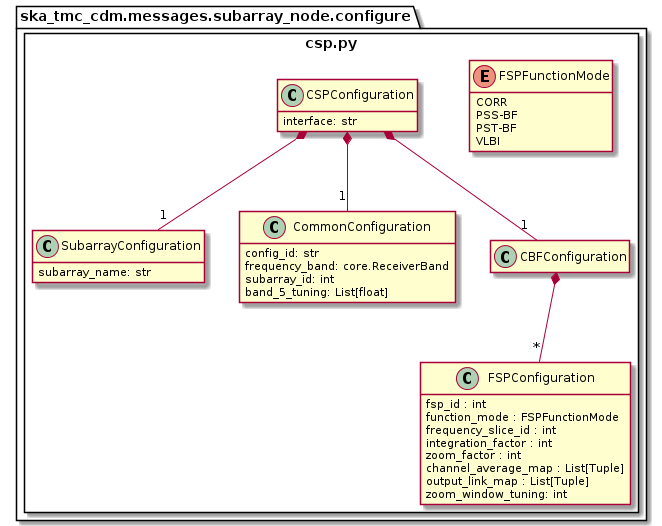
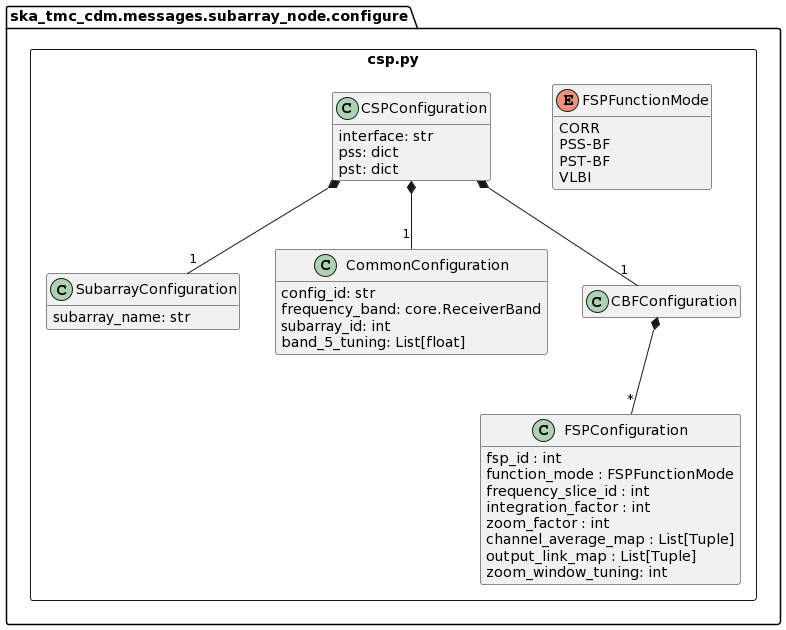
NAK-99 Documentation Update

diff --git a/src/ska_tmc_cdm/messages/subarray_node/configure/csp.py b/src/ska_tmc_cdm/messages/subarray_node/configure/csp.py
@@ -187,8 +187,8 @@ class CBFConfiguration:
     def __init__(
         self,
         fsp_configs: List[FSPConfiguration],
-        # TODO: in future when csp 2.2 will be used than type of vlbi_config parameter will be replaced # pylint: disable=W0511
-        #  with the respective class(VLBIConfiguration)
+        # TODO: in future when csp 2.2 will be used than type of vlbi_config parameter # pylint: disable=W0511
+            #  will be replaced with the respective class(VLBIConfiguration)
         vlbi_config: dict = None,
     ):
         """
@@ -227,8 +227,8 @@ class CSPConfiguration:
         subarray_config: SubarrayConfiguration = None,
         common_config: CommonConfiguration = None,
         cbf_config: CBFConfiguration = None,
-        # TODO: in future when csp2.2 will be used than type of pst_config and pss_config parameter will be replaced # pylint: disable=W0511
-        #  with the respective class(PSTConfiguration,PSSConfiguration)
+        # TODO: in future when csp2.2 will be used than type of pst_config and pss_config # pylint: disable=W0511
+            #  parameter will be replaced with the respective class(PSTConfiguration,PSSConfiguration)
         pst_config: dict = None,
         pss_config: dict = None,
     ):

diff --git a/src/ska_tmc_cdm/schemas/subarray_node/configure/csp.py b/src/ska_tmc_cdm/schemas/subarray_node/configure/csp.py
@@ -220,7 +220,7 @@ class CBFConfigurationSchema(Schema):
 
         :param data: Marshmallow-provided dict containing parsed object values
         :param _: kwargs passed by Marshmallow
-        :return: dict suitable for FSP configuration
+        :return: dict suitable for CBF configuration
         """
         result = {k: v for k, v in data.items() if v is not None}
         return result
@@ -237,8 +237,8 @@ class CSPConfigurationSchema(ValidatingSchema):
     common_config = fields.Nested(CommonConfigurationSchema, data_key="common")
     cbf_config = fields.Nested(CBFConfigurationSchema, data_key="cbf")
 
-    # TODO: in future when csp2.2 will be used than these 2 parameter type will be replaced with # pylint: disable=W0511
-    #  the respective class schema (PSSonfigurationSchema,PSTConfigurationSchema)
+    # TODO: in future when csp2.2 will be used than these 2 parameter type will be # pylint: disable=W0511
+    #  replaced with the respective class schema (PSSConfigurationSchema,PSTConfigurationSchema)
     pss_config = fields.Dict(data_key="pss")
     pst_config = fields.Dict(data_key="pst")
 

diff --git a/tests/unit/ska_tmc_cdm/messages/subarray_node/test_configure.py b/tests/unit/ska_tmc_cdm/messages/subarray_node/test_configure.py
@@ -263,10 +263,10 @@ def test_configure_request_mccs_independence():
     #     )
 
 
-def test_csp_configuration_equals_pi16():
+def test_configure_request_equals_pi16():
     """
-    Verify that CSPConfiguration objects are considered equal when all
-    attributes are equal.
+    Verify that ConfigureRequest objects are considered equal when all
+    attributes are equal and not equal when there value differ.
     """
 
     configure_request_obj_1 = ConfigureRequest(**CONFIGURE_OBJECT_ARGS_PI16)
@@ -284,9 +284,9 @@ def test_csp_configuration_equals_pi16():
     assert configure_request_obj_1 != configure_request_obj_3
 
 
-def test_csp_configuration_not_equal_to_other_objects_pi16():
+def test_configure_request_not_equal_to_other_objects_pi16():
     """
-    Verify that CSPConfiguration objects are not considered equal to objects
+    Verify that ConfigureRequest objects are not considered equal to objects
     of other types.
     """
     configure_request_obj_1 = ConfigureRequest(**CONFIGURE_OBJECT_ARGS_PI16)

diff --git a/docs/src/developer/subarraynode/subarraynode.rst b/docs/src/developer/subarraynode/subarraynode.rst
@@ -132,54 +132,87 @@ of a full CDM JSON object, the elements this maps to are:
   # JSON modelled specifically by csp.py
   {
     ...
-    "csp": {
-      "interface": "https://schema.skao.int/ska-csp-configure/2.0",
-      "subarray": {
-        "subarray_name": "science period 23"
-      },
-      "common": {
-        "config_id": "sbi-mvp01-20200325-00001-science_A",
-        "frequency_band": "1",
-        "subarray_id": 1
-      },
-      "cbf": {
-        "fsp": [
-          {
-            "fsp_id": 1,
-            "function_mode": "CORR",
-            "frequency_slice_id": 1,
-            "integration_factor": 10,
-            "output_link_map": [
-              [0,0],
-              [200,1]
+    csp": {
+    "interface": "https://schema.skao.int/ska-csp-configure/2.0",
+    "subarray": {
+      "subarray_name": "science period 23"
+    },
+    "common": {
+      "config_id": "sbi-mvp01-20200325-00001-science_A",
+      "frequency_band": "1",
+      "subarray_id": 1
+    },
+    "cbf": {
+      "fsp": [
+        {
+          "fsp_id": 1,
+          "function_mode": "CORR",
+          "frequency_slice_id": 1,
+          "integration_factor": 1,
+          "zoom_factor": 0,
+          "channel_averaging_map": [
+            [
+              0,
+              2
             ],
-            "zoom_factor": 0,
-            "channel_averaging_map": [
-              [0, 2],
-              [744, 0]
+            [
+              744,
+              0
+            ]
+          ],
+          "channel_offset": 0,
+          "output_link_map": [
+            [
+              0,
+              0
             ],
-            "channel_offset": 0
-          },
-          {
-            "fsp_id": 2,
-            "function_mode": "CORR",
-            "frequency_slice_id": 2,
-            "integration_factor": 10,
-            "zoom_factor": 1,
-            "output_link_map": [
-              [0,4],
-             [200,5]
+            [
+              200,
+              1
+            ]
+          ]
+        },
+        {
+          "fsp_id": 2,
+          "function_mode": "CORR",
+          "frequency_slice_id": 2,
+          "integration_factor": 1,
+          "zoom_factor": 1,
+          "channel_averaging_map": [
+            [
+              0,
+              2
             ],
-            "channel_averaging_map": [
-              [0, 2],
-              [744, 0]
+            [
+              744,
+              0
+            ]
+          ],
+          "channel_offset": 744,
+          "output_link_map": [
+            [
+              0,
+              4
             ],
-            "channel_offset": 744,
-            "zoom_window_tuning": 4700000
-          }
-        ]
+            [
+              200,
+              5
+            ]
+          ],
+          "zoom_window_tuning": 650000
+        }
+      ],
+      "vlbi": {
+
       }
     },
+    "pss": {
+
+    },
+    "pst": {
+
+    }
+  },
     ...
   }
 
@@ -319,61 +352,108 @@ Example configuration JSON for MID
 .. code-block:: JSON
 
   {
-    "pointing": {
-      "target": {
-        "reference_frame":"ICRS",
-        "name": "NGC1068",
-        "ra": 0.70984,
-        "dec": 0.000233
-      },
+  "interface": "https://schema.skao.int/ska-tmc-configure/2.1",
+  "transaction_id": "txn-....-00001",
+  "pointing": {
+    "target": {
+      "reference_frame": "ICRS",
+      "target_name": "Polaris Australis",
+      "ra": "21:08:47.92",
+      "dec": "-88:57:22.9"
+    }
+  },
+  "dish": {
+    "receiver_band": "1"
+  },
+  "csp": {
+    "interface": "https://schema.skao.int/ska-csp-configure/2.0",
+    "subarray": {
+      "subarray_name": "science period 23"
     },
-    "dish": {
-      "receiver_band": "1"
+    "common": {
+      "config_id": "sbi-mvp01-20200325-00001-science_A",
+      "frequency_band": "1",
+      "subarray_id": 1
     },
-    "csp": {
-      "interface": "https://schema.skao.int/ska-csp-configure/2.0",
-      "subarray": {
-        "subarray_name": "science period 23"
-      },
-      "common": {
-        "id": "sbi-mvp01-20200325-00001-science_A",
-        "frequencyBand": "1",
-        "subarray_id": 1
-      },
-      "cbf": {
-        "fsp": [
-          {
-            "fsp_id": 1,
-            "function_mode": "CORR",
-            "frequency_slice_id": 1,
-            "integration_factor": 10,
-            "output_link_map": [[0,0], [200,1]],
-            "zoom_factor": 0,
-            "channel_averaging_map": [[0, 2], [744, 0]],
-            "channel_offset": 0
-          },
-          {
-            "fsp_id": 2,
-            "function_mode": "CORR",
-            "frequency_slice_id": 2,
-            "integration_factor": 10,
-            "zoom_factor": 1,
-            "output_link_map": [[0,4], [200,5]],
-            "channel_averaging_map": [[0, 2], [744, 0]],
-            "channel_offset": 744,
-            "zoom_window_tuning": 4700000
-          }
-        ]
+    "cbf": {
+      "fsp": [
+        {
+          "fsp_id": 1,
+          "function_mode": "CORR",
+          "frequency_slice_id": 1,
+          "integration_factor": 1,
+          "zoom_factor": 0,
+          "channel_averaging_map": [
+            [
+              0,
+              2
+            ],
+            [
+              744,
+              0
+            ]
+          ],
+          "channel_offset": 0,
+          "output_link_map": [
+            [
+              0,
+              0
+            ],
+            [
+              200,
+              1
+            ]
+          ]
+        },
+        {
+          "fsp_id": 2,
+          "function_mode": "CORR",
+          "frequency_slice_id": 2,
+          "integration_factor": 1,
+          "zoom_factor": 1,
+          "channel_averaging_map": [
+            [
+              0,
+              2
+            ],
+            [
+              744,
+              0
+            ]
+          ],
+          "channel_offset": 744,
+          "output_link_map": [
+            [
+              0,
+              4
+            ],
+            [
+              200,
+              5
+            ]
+          ],
+          "zoom_window_tuning": 650000
+        }
+      ],
+      "vlbi": {
+
       }
     },
-    "sdp": {
-      "interface": "https://schema.skao.int/ska-sdp-configure/0.3",
-      "scan_type": "science_A"
+    "pss": {
+
     },
-    "tmc": {
-      "scan_duration": 10.0,
+    "pst": {
+
     }
+  },
+  "sdp": {
+    "interface": "https://schema.skao.int/ska-sdp-configure/0.4",
+    "scan_type": "science_A"
+  },
+  "tmc": {
+    "scan_duration": 10.0
   }
+}
 
 Example configuration JSON for LOW
 ==================================
